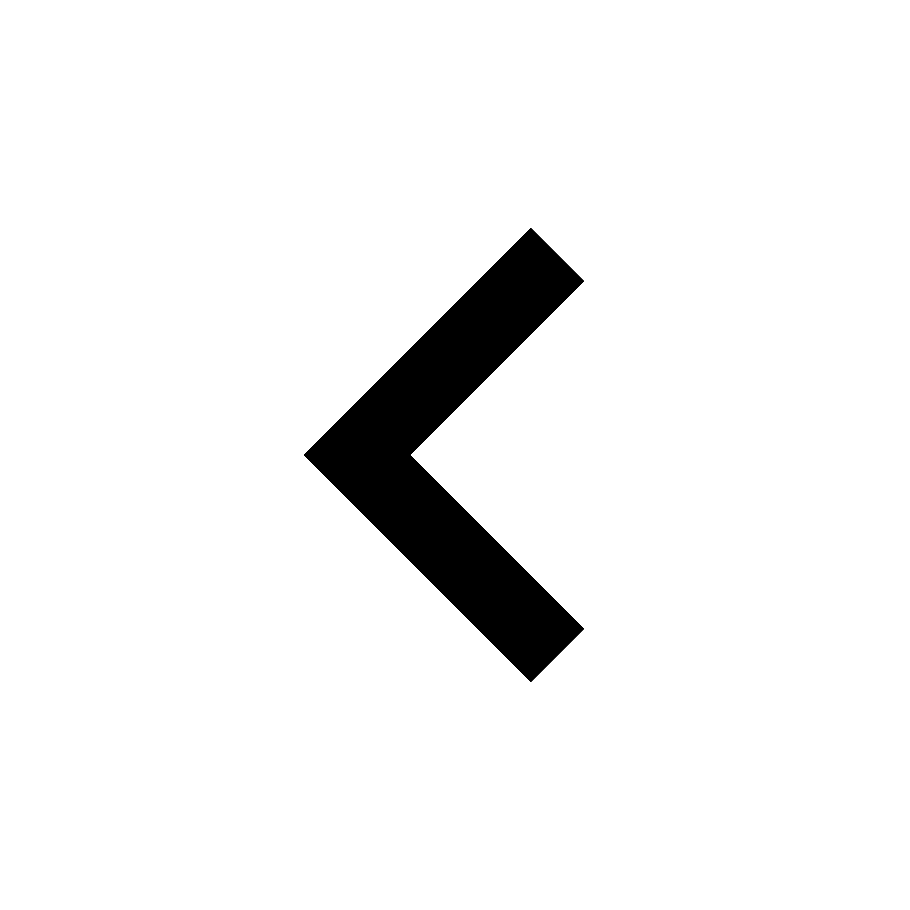
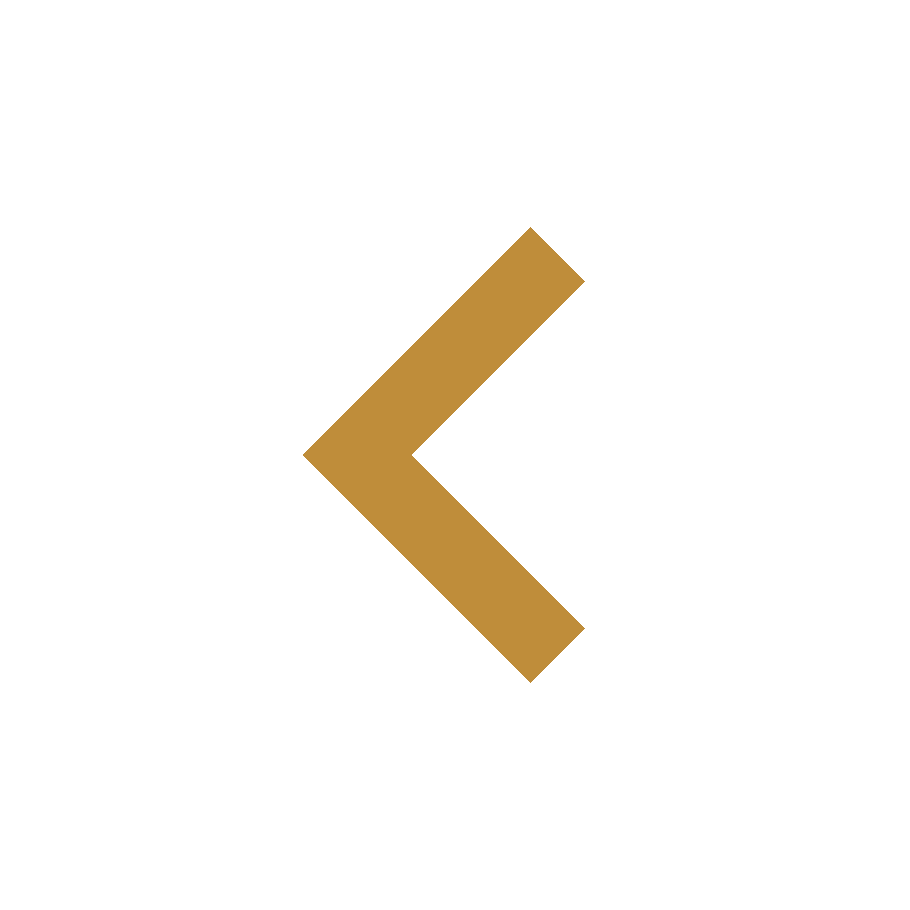
ajout header profil + réajustement header global

Changed region(s): [[0.3385, 0.2462, 0.6462, 0.7385]]

diff --git a/src/screens/Profile.js b/src/screens/Profile.js
@@ -2,7 +2,7 @@ import React, { Component } from 'react'
 import { StyleSheet, View, Text, TouchableOpacity, TextInput, Dimensions, AsyncStorage, ImageBackground, Image  } from 'react-native'
 import * as axios from 'axios'
 
-import Header from '../components/Header'
+import HeaderP from '../components/HeaderP'
 
 const{width: WIDTH} = Dimensions.get('window') 
 class Profile extends Component{
@@ -91,14 +91,9 @@ class Profile extends Component{
     render(){
     return (
         <ImageBackground source={require('../../assets/profile.jpg')} style={{width: '100%', height: '100%',flex:1, flexDirection:'row'}}>
+        <View  style={{width: '100%'}}>
+            <HeaderP />
         <View style={styles.container}>
-        <TouchableOpacity style={styles.touch}
-                onPress={() => this.props.navigation.navigate('ChampionsListPage')}>
-        <Image
-        style={styles.tinyLogo}
-        source={require('../../assets/back.png')}
-      />
-      </TouchableOpacity>
             <Text style={styles.text}>Profil</Text>
             <TextInput
                 placeholder="Nom"
@@ -144,6 +139,7 @@ class Profile extends Component{
                 >
                 <Text style={styles.buttonTextSave}>Sauvegarder</Text>
             </TouchableOpacity>
+        </View>
         </View>
         </ImageBackground>
     )

diff --git a/src/components/HeaderP.js b/src/components/HeaderP.js
@@ -1,0 +1,43 @@
+import React, { Component } from 'react'
+import { Text, View, StyleSheet, TouchableOpacity, Image } from 'react-native'
+import { useNavigation } from '@react-navigation/native';
+
+export default function Header() {
+    const navigation = useNavigation();
+
+        return (
+            <View style={styles.header}>
+                <TouchableOpacity style={styles.touch}
+                onPress={() => navigation.navigate('ChampionsListPage')}>
+                <Image
+                    style={styles.touch}
+                    source={require('../../assets/back.png')}
+                />
+            </TouchableOpacity>
+            <Text style= {styles.headerText}>MyBuild</Text>
+            </View>
+        )
+    }
+
+const styles = StyleSheet.create({
+    header: {
+        backgroundColor: '#010a13',
+        padding: 25,
+        alignItems: 'flex-start',
+        flexDirection:'row',
+        borderBottomWidth:1,
+        borderBottomColor: '#bf8d3a',
+    },
+    headerText: {
+        color: '#bf8d3a',
+    },
+    touch:{
+        flex: 0,
+        width: 35,
+        height: 35,
+        resizeMode: 'contain',
+        position: 'absolute',
+        right: 0,
+        top: 15
+    },
+})

diff --git a/src/components/Header.js b/src/components/Header.js
@@ -7,13 +7,13 @@ export default function Header() {
 
         return (
             <View style={styles.header}>
-                <Text style= {styles.headerText}>MyBuild                                                                         </Text>
+                <Text style= {styles.headerText}>MyBuild</Text>
                 <TouchableOpacity style={styles.touch}
                 onPress={() => navigation.navigate('Profile')}>
-              <Image
-        style={styles.profilIcon}
-        source={require('../../assets/profil.png')}
-      />
+                <Image
+                    style={styles.touch}
+                    source={require('../../assets/profil.png')}
+                />
             </TouchableOpacity>
             </View>
         )
@@ -32,15 +32,6 @@ const styles = StyleSheet.create({
         color: '#bf8d3a',
     },
     touch:{
-        flex: 0,
-        width: 35,
-        height: 35,
-        resizeMode: 'contain',
-        position: 'absolute',
-        right: 0,
-        top: 15
-    },
-    profilIcon:{
         flex: 0,
         width: 35,
         height: 35,

diff --git a/src/screens/RegisterSuccess.js b/src/screens/RegisterSuccess.js
@@ -38,8 +38,10 @@ class RegisterSuccess extends Component{
 
     render() {
         return(
-            <View style = {styles.container}>
+            <View  style={{width: '100%'}}>
                 <Header />
+                <View style = {styles.container}>
+
                 <Text style = {styles.text}>Inscription réussie!</Text>
                 <Text>Bienvenue: { this.state.username }</Text>
                 <TouchableOpacity
@@ -47,6 +49,7 @@ class RegisterSuccess extends Component{
                 <Text style={styles.signUpText}>Retour</Text>
             </TouchableOpacity>
             </View>
+         </View>
         )
     }
 }

diff --git a/src/screens/ChampionsListPage.js b/src/screens/ChampionsListPage.js
@@ -18,7 +18,7 @@ export default class Accueil extends Component {
     render(){
         return (
             <ImageBackground source={require('../../assets/bg.jpg')} style={{width: '100%', height: '100%',flex:1, flexDirection:'row'}}>
-            <View>
+            <View  style={{width: '100%'}}>
             <Header />
             <ScrollView>
                 {addImageToChampion(CHAMPIONBYID)}

diff --git a/src/screens/Register.js b/src/screens/Register.js
@@ -2,8 +2,6 @@ import React, { Component } from 'react'
 import { StyleSheet, View, Text, TouchableOpacity, TextInput, Dimensions, AsyncStorage, ImageBackground  } from 'react-native'
 import * as axios from 'axios'
 
-import Header from '../components/Header'
-
 const{width: WIDTH} = Dimensions.get('window') 
 class Register extends Component{
     constructor(props) {

diff --git a/src/screens/Login.js b/src/screens/Login.js
@@ -2,9 +2,6 @@ import React, {Component} from 'react'
 import { StyleSheet, View, Text, TouchableOpacity, TextInput, Dimensions, AsyncStorage, ImageBackground } from 'react-native'
 import * as axios from 'axios'
 
-import Header from '../components/Header'
-
-
 const{width: WIDTH} = Dimensions.get('window') 
 
 class Login extends Component{
